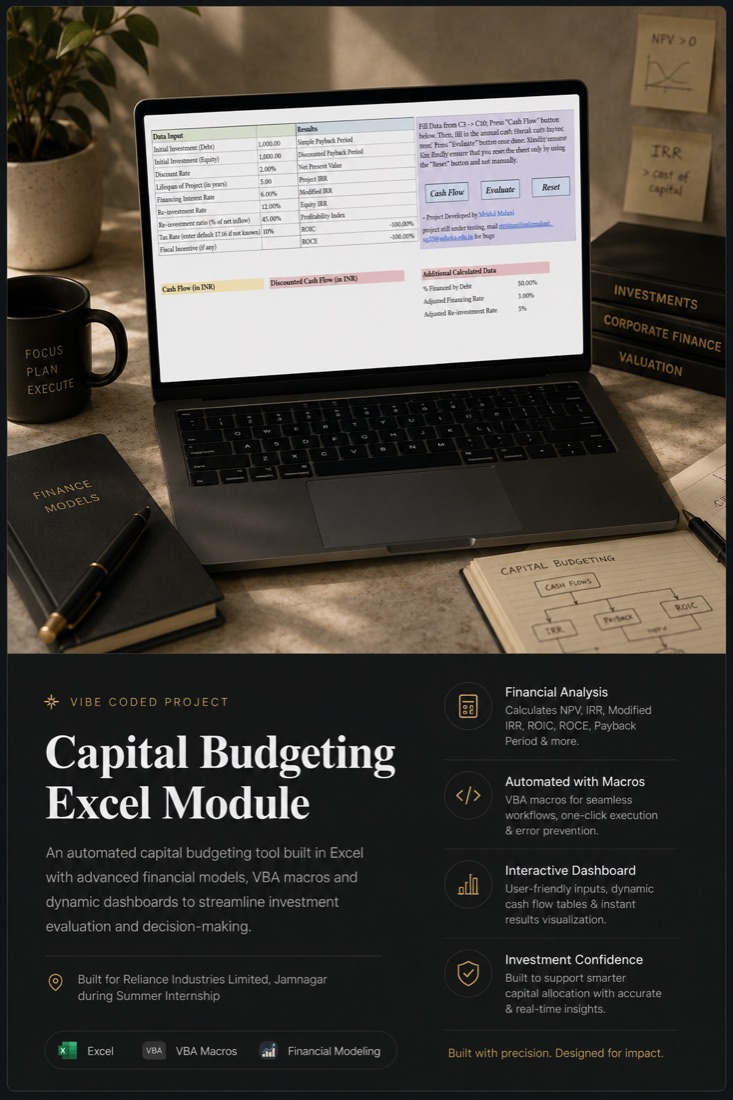
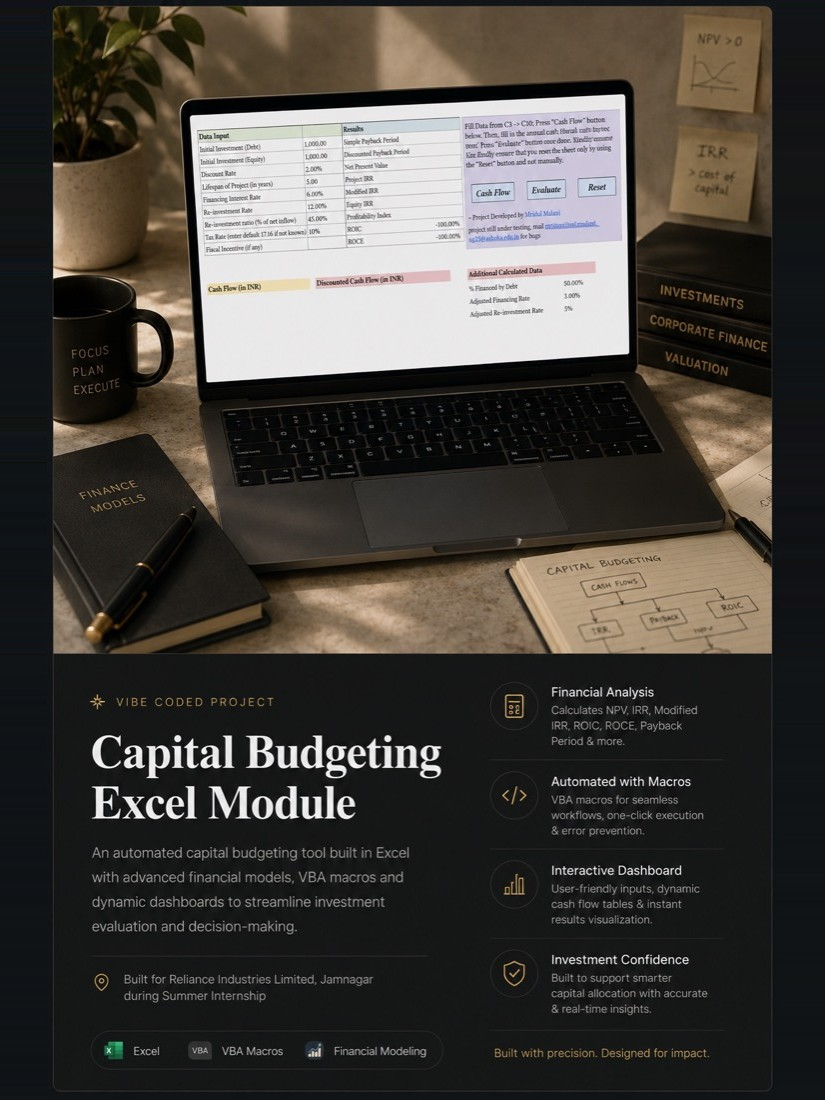
fix(projects): uniform card sizing across every section and device
- Every project card now fills one fixed 3:4 frame (object-cover), so
  boards, placeholders and mixed ratios all render identical dimensions
  in the grid — no more the finance deck being uneven
- Normalised capital-budgeting.jpg (was 733x1100) to 825x1100 by
  replicating its uniform dark side-edges, so it fits the 3:4 frame with
  no crop and no seam
- Off-ratio boards (future drop-ins) auto-letterbox instead of cropping
  their baked-in text, keeping the frame — and the grid — uniform
- Cards fill an absolute frame, so the responsive grid stays aligned and
  well-placed from phone widths up

Claude-Session: https://claude.ai/code/session_016KW22QFiYA24TBE2BC8A3B

diff --git a/components/ProjectCard.tsx b/components/ProjectCard.tsx
@@ -1,4 +1,4 @@
-import React, { useRef } from 'react';
+import React, { useRef, useState } from 'react';
 import { motion, useReducedMotion } from 'framer-motion';
 import { Plus } from 'lucide-react';
 import { Project, ProjectStatus } from '../types';
@@ -32,9 +32,21 @@ const STATUS_LABEL: Record<ProjectStatus, string> = {
  * button. A board-less project renders an accent placeholder in the same
  * proportions, keeping the gallery even until its image lands.
  */
+/** The frame every card fills — one ratio, so the gallery is always even. */
+const CARD_ASPECT = 3 / 4;
+
 const ProjectCard: React.FC<ProjectCardProps> = ({ project, index, accent, onOpen }) => {
   const prefersReduced = useReducedMotion();
   const tiltRef = useRef<HTMLDivElement>(null);
+  // Boards are 3:4; if a future one isn't, letterbox it rather than crop its
+  // baked-in text — the frame size never changes, so the grid stays uniform.
+  const [fit, setFit] = useState<'cover' | 'contain'>('cover');
+  const onImgLoad = (e: React.SyntheticEvent<HTMLImageElement>) => {
+    const img = e.currentTarget;
+    if (!img.naturalWidth || !img.naturalHeight) return;
+    const ratio = img.naturalWidth / img.naturalHeight;
+    setFit(Math.abs(ratio - CARD_ASPECT) > 0.02 ? 'contain' : 'cover');
+  };
 
   // Pointer-tracking tilt, written straight to the element so React never
   // re-renders on mousemove. Fine-pointer + motion-ok users only.
@@ -71,7 +83,7 @@ const ProjectCard: React.FC<ProjectCardProps> = ({ project, index, accent, onOpe
           ref={tiltRef}
           onMouseMove={handleMove}
           onMouseLeave={handleLeave}
-          className="relative overflow-hidden rounded-xl shadow-[0_16px_34px_-20px_rgba(26,26,34,0.5)] ring-1 ring-ink/10 transition-[transform,box-shadow] duration-300 ease-out group-hover:shadow-[0_30px_60px_-22px_var(--glow)] motion-reduce:!transform-none"
+          className="relative aspect-[3/4] overflow-hidden rounded-xl bg-ink shadow-[0_16px_34px_-20px_rgba(26,26,34,0.5)] ring-1 ring-ink/10 transition-[transform,box-shadow] duration-300 ease-out group-hover:shadow-[0_30px_60px_-22px_var(--glow)] motion-reduce:!transform-none"
           style={{ '--glow': `${accent}66` } as React.CSSProperties}
         >
           {project.image ? (
@@ -79,7 +91,10 @@ const ProjectCard: React.FC<ProjectCardProps> = ({ project, index, accent, onOpe
               <img
                 src={project.image}
                 alt={`${project.title} — ${project.story}`}
-                className="block w-full transition-transform duration-500 ease-out group-hover:scale-[1.03] motion-reduce:!transform-none"
+                onLoad={onImgLoad}
+                className={`absolute inset-0 h-full w-full transition-transform duration-500 ease-out group-hover:scale-[1.03] motion-reduce:!transform-none ${
+                  fit === 'cover' ? 'object-cover object-top' : 'object-contain'
+                }`}
                 loading="lazy"
               />
               {/* hover scrim — surfaces the title + status over the board */}
@@ -96,10 +111,10 @@ const ProjectCard: React.FC<ProjectCardProps> = ({ project, index, accent, onOpe
               </div>
             </>
           ) : (
-            // board still in the shop — an accent field in the same
-            // proportions, so the gallery stays even until the image lands
+            // board still in the shop — an accent field filling the same
+            // frame, so the gallery stays even until the image lands
             <div
-              className="relative flex aspect-[3/4] flex-col justify-between p-6"
+              className="absolute inset-0 flex flex-col justify-between p-6"
               style={{
                 background: `linear-gradient(150deg, ${accent} 0%, ${accent}CC 55%, ${accent}99 100%)`,
               }}
